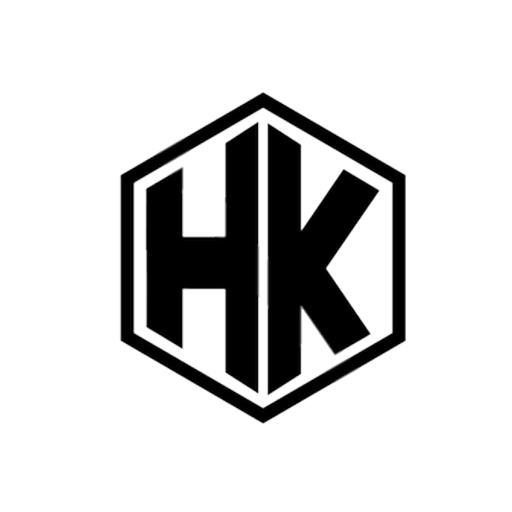
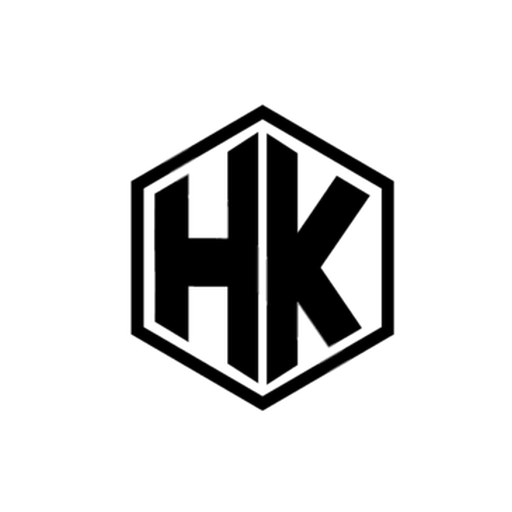
Add files via upload

Changed region(s): [[0.2188, 0.1562, 0.8125, 0.8438], [0.625, 0.4375, 0.6875, 0.5625]]

diff --git a/sw.js b/sw.js
@@ -1,10 +1,9 @@
-const CACHE = 'hk-stats-v3';
+const CACHE = 'hk-stats-v4';
 const FILES = [
   './balonmano_stats.html',
   './manifest.json',
   './icon-192.png',
   './icon-512.png',
-  './icon-maskable-512.png',
   './logo_hk.png'
 ];
 